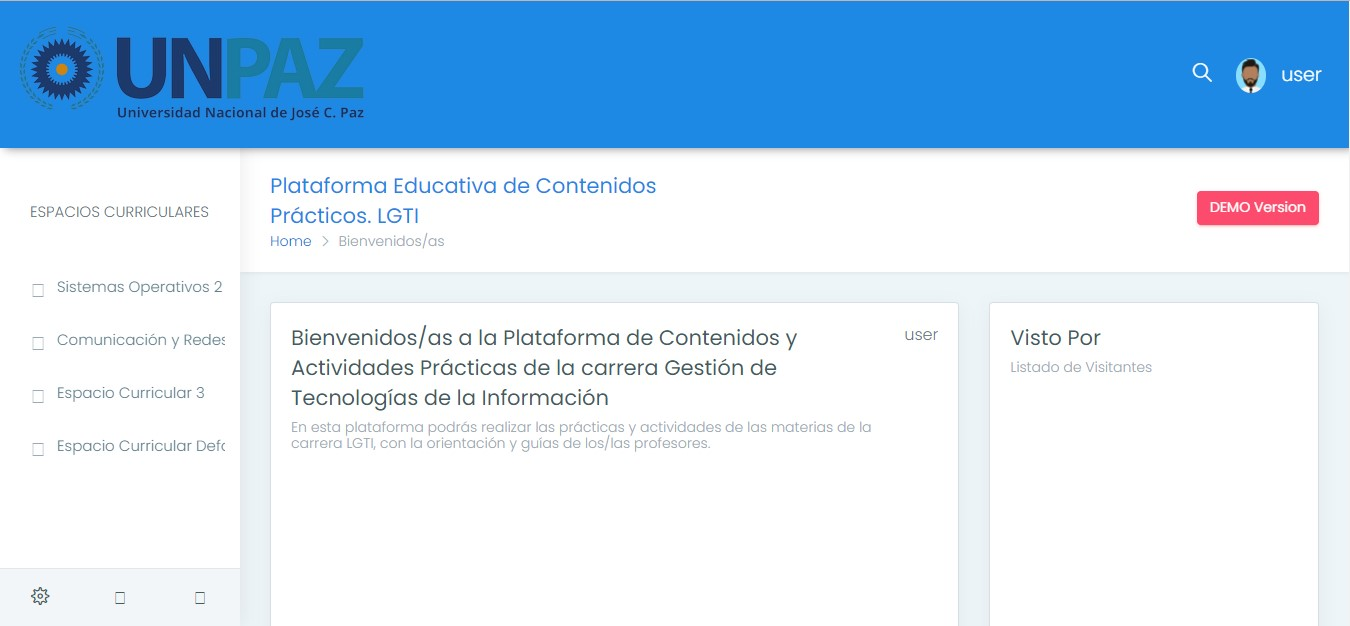
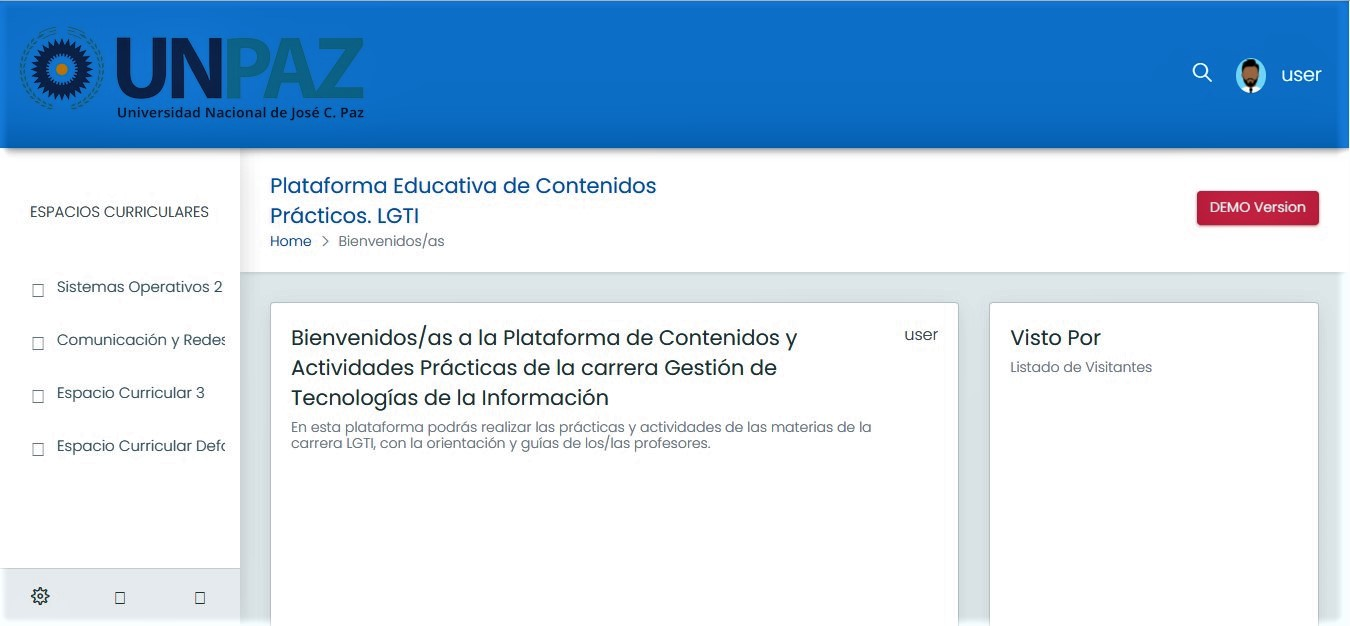
cambios foto lgti y paginacion

diff --git a/html/proyectoLGTI.html b/html/proyectoLGTI.html
@@ -78,42 +78,26 @@
               </div>
             </div>
           </div>
-        </article>  
-          <!-- Carousel -->
-          <div id="carouselExampleControls" class="carousel slide" data-bs-ride="carousel">
-            <div class="carousel-inner">
-              <div class="carousel-item active">
-                <img src="../img/plataforma 1.jpg" class="d-block w-100" alt="Captura Entorno Simulado">
-              </div>
-              <div class="carousel-item">
-                <img src="../img/plataforma 2.jpg" class="d-block w-100" alt="Captura Entorno Simulado">
-              </div>
-              <div class="carousel-item">
-                <img src="../img/plataforma 3.jpg" class="d-block w-100" alt="Captura Entorno Simulado">
-              </div>
-            </div>
-            <button class="carousel-control-prev" type="button" data-bs-target="#carouselExampleControls" data-bs-slide="prev">
-              <span class="carousel-control-prev-icon" aria-hidden="true"></span>
-              <span class="visually-hidden">Previous</span>
-            </button>
-            <button class="carousel-control-next" type="button" data-bs-target="#carouselExampleControls" data-bs-slide="next">
-              <span class="carousel-control-next-icon" aria-hidden="true"></span>
-              <span class="visually-hidden">Next</span>
-            </button>
+          </article>  
+          <!-- Imagen -->
+          <div class="box">
+            <img src="../img/plataforma 3.jpg" alt="Captura Plataforma LGTI">
           </div>
 
           <!-- Paginación -->
-          <nav aria-label="Page navigation example">
-            <ul class="pagination justify-content-center">
-              <li class="page-item"><a class="page-link" href="../index.html">Inicio</a></li>
-              <li class="page-item"><a class="page-link" href="../html/proyectoGG.html">Juegos de Escape Virtuales</a></li>
-              <li class="page-item"><a class="page-link" href="../html/proyectoIQ.html">Videojuego Educativo</a></li>
-            </ul>
+          <nav class="botones">
+            <div class="col-md-9">
+              <a href="../index.html">
+                <button id="inicio" type="button" class="btn btn-secondary">Volver a Inicio</button></a>
+              <a href="../html/proyectoIQ.html">
+                <button id="IQ" type="button" class="btn btn-secondary">Videojuego Educativo</button></a>
+              <a href="../html/proyectoGG.html">
+                <button id="GG" type="button" class="btn btn-secondary">Juegos de Escape Virtuales</button></a>
+            </div>
           </nav>
-          
         </div> 
     </main>
-    
+    <!-- Footer -->
     <footer>
       <div>
         UNIVERSIDAD NACIONAL DE JOSÉ CLEMENTE PAZ <br>

diff --git a/html/proyectoIQ.html b/html/proyectoIQ.html
@@ -83,26 +83,28 @@
           </div>
         </article>  
           <!-- Video Captura -->
-          <video src="../img/video-iq.mp4" width="1280" height="960" controls></video>
+          <video src="../img/video-iq.mp4" width="1280" height="720" controls></video>
           <!-- Paginación -->
-          <nav aria-label="Page navigation example">
-            <ul class="pagination justify-content-center">
-              <li class="page-item"><a class="page-link" href="../index.html">Inicio</a></li>
-              <li class="page-item"><a class="page-link" href="../html/proyectoLGTI.html">Entorno Simulado</a></li>
-              <li class="page-item"><a class="page-link" href="../html/proyectoGG.html">Juegos de Escape Virtuales</a></li>
-            </ul>
+          <nav class="botones">
+            <div class="col-md-9">
+              <a href="../index.html">
+                <button id="inicio" type="button" class="btn btn-secondary">Volver a Inicio</button></a>
+              <a href="../html/proyectoLGTI.html">
+              <button id="LGTI" type="button" class="btn btn-secondary">Entorno Simulado</button></a>
+              <a href="../html/proyectoGG.html">
+                <button id="GG" type="button" class="btn btn-secondary">Juegos de Escape Virtuales</button></a>
+            </div>
           </nav>
 
         </div> 
     </main>
-    
+    <!-- Footer -->
     <footer>
       <div>
         UNIVERSIDAD NACIONAL DE JOSÉ CLEMENTE PAZ <br>
         Leandro N. Alem 4731 | José C. Paz (C.P 1665) | Prov. Buenos Aires | Argentina
       </div>
     </footer>
-  
 
     <!-- Bootstrap Bundle with Popper -->
     <script src="https://cdn.jsdelivr.net/npm/bootstrap@5.1.3/dist/js/bootstrap.bundle.min.js" integrity="sha384-ka7Sk0Gln4gmtz2MlQnikT1wXgYsOg+OMhuP+IlRH9sENBO0LRn5q+8nbTov4+1p" crossorigin="anonymous"></script>

diff --git a/html/proyectoGG.html b/html/proyectoGG.html
@@ -112,17 +112,20 @@
           </div>
 
           <!-- Paginación -->
-          <nav aria-label="Page navigation example">
-            <ul class="pagination justify-content-center">
-              <li class="page-item"><a class="page-link" href="../index.html">Inicio</a></li>
-              <li class="page-item"><a class="page-link" href="../html/proyectoLGTI.html">Entorno Simulado</a></li>
-              <li class="page-item"><a class="page-link" href="../html/proyectoIQ.html">Videojuego Educativo</a></li>
-            </ul>
-          </nav>
+          <nav class="botones">
+            <div class="col-md-9">
+              <a href="../index.html">
+                <button id="inicio" type="button" class="btn btn-secondary">Volver a Inicio</button></a>
+              <a href="../html/proyectoLGTI.html">
+              <button id="LGTI" type="button" class="btn btn-secondary">Entorno Simulado</button></a>
+            <a href="../html/proyectoIQ.html">
+              <button id="IQ" type="button" class="btn btn-secondary">Videojuego Educativo</button></a>
+          </div>
+        </nav>
           
         </div> 
     </main>
-    
+  <!-- Footer  -->
     <footer>
       <div>
         UNIVERSIDAD NACIONAL DE JOSÉ CLEMENTE PAZ <br>

diff --git a/css/style.css b/css/style.css
@@ -74,14 +74,12 @@ font-weight: 800;
 #cicloPres {
     margin-right: 10%;
 }
-#arqueo {
-
-}
 
 .botones {
     display: flex;
     justify-content: center;
     padding-bottom: 3%;
+    margin-top: 3%;
 }
 button {
     margin-left: 1%;
@@ -105,6 +103,24 @@ button {
     margin: 1%;
 }
 
+.box img{
+    width: 100%;
+    height: auto;
+  }
+  @supports(object-fit: cover){
+      .box img{
+        height: 100%;
+        object-fit: cover;
+        object-position: center center;
+      }
+  }
+
+#inicio {
+    background-color: #333333;
+    border-color: #333333;
+    color: white;
+} 
+  
 footer {
     background-color: #333333;
     color: white;

diff --git a/index.html b/index.html
@@ -50,7 +50,7 @@
             </div>
           </article>
              <!-- botones proyectos -->
-             <div class="botones">
+             <nav class="botones">
               <div class="col-md-9">
                 <a href="html/proyectoGG.html">
                   <button id="GG" type="button" class="btn btn-secondary">Juegos de Escape Virtuales</button></a>
@@ -59,7 +59,7 @@
                <a href="html/proyectoIQ.html">
                  <button id="IQ" type="button" class="btn btn-secondary">Videojuego Educativo</button></a>
              </div>
-            </div>
+             </nav>
         </div>
     </main>
 <!-- FOOTER -->
